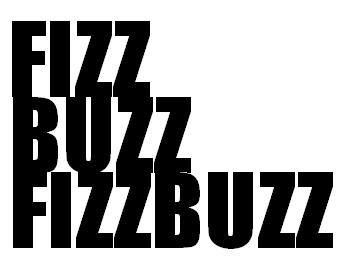
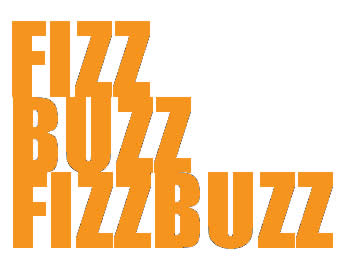
fixed code

diff --git a/FizzBuzzMeta.html b/FizzBuzzMeta.html
@@ -11,7 +11,7 @@
                     <a class="nav-link" href="index.html">Home</a>
                 </li>
                 <li class="nav-item active">
-                    <a class="nav-link" href="solve.html">Solve <span class="sr-only">(current)</span></a>
+                    <a class="nav-link" href="#">Solve <span class="sr-only">(current)</span></a>
                 </li>
                 <li class="nav-item">
                   <a class="nav-link" href="code.html">Code</a>
@@ -28,7 +28,7 @@
               
           </div>
       </nav>
-    <title>FIZZ BUZZ</title>
+    <title>FizzBuzz Meta Strategy</title>
     <!-- Required meta tags -->
     <meta charset="utf-8">
     <meta name="viewport" content="width=device-width, initial-scale=1, shrink-to-fit=no">
@@ -36,55 +36,42 @@
     <!-- Bootstrap CSS -->
     <link rel="stylesheet" href="https://stackpath.bootstrapcdn.com/bootstrap/4.3.1/css/bootstrap.min.css" integrity="sha384-ggOyR0iXCbMQv3Xipma34MD+dH/1fQ784/j6cY/iJTQUOhcWr7x9JvoRxT2MZw1T" crossorigin="anonymous">
     <link rel="stylesheet" href="css/fizzbuzz.css">
-    
+    <div class="rev-style">
   </head>
   <body>
-    <img src="img/fizzbuzz.jpg" class="responsive">
+    <img src="img/fizzbuzz.png" class="responsive">
     <div class="rev-style">
-        <h3>This Program Tests FizzBuzz</h3>
-            <label><span>First Number: </span><input id="input1" type="number" ></label>
-            <label><span>Second Number: </span><input id="input2" type="number" ></label>
-            <label><span></span><input type="submit" onclick="buzzItTemplate()" value="Start Buzzing!"></label>
-            <!--begin table-->
+        <div class="rev=style-headingB">Write a program that prints the numbers from 1 to 100. But for multiples of three print “Fizz” instead of the number and for the multiples of five print “Buzz”. For numbers which are multiples of both three and five print “FizzBuzz”.</div>
+        <br>
+            <label class="form-group"><span>Enter a number:</span><input id="Fizzvalue" type="number"  name="fizz" value="3"></label><br>
+            <label class="form-group"><span>Enter another number:</span><input id="Buzzvalue" type="number" name="buzz" value="5"></label>
+            <label><span></span><input type="submit" onclick="buzzItTemplate()" value="Buzz It!"></label>
             <div style="overflow-x: auto;">
                 <table id="results">
-                    <!--Generated Results here-->
+                    <!--Generated Results Go Here-->
                 </table>
-
             </div>
-            <!--Templates for displaying output-->
+            <!--Templates for displaying the output-->
             <script id="template-header" type="text/template">
                 <thead>
-                    <tr><th colspan="5"> Fizz Buzz Results</th></tr>
+                    <tr><th colspan="5"> Results For Fizz Buzz</th></tr>
                 </thead>
             </script>
             <script id="template-row-items" type="text/template">
                 <tr>
                     <td>{{val1}}</td><td>{{val2}}</td><td>{{val3}}</td><td>{{val4}}</td><td>{{val5}}</td>
+
                 </tr>
 
             </script>
 
 
 
-
-            <hr /> <!--Start here if table fails-->
-            
-        </div>
-
-    </div>
-  
-      
-
-
-        
-
-    <!-- Optional JavaScript -->
+     <!-- Optional JavaScript -->
     <!-- jQuery first, then Popper.js, then Bootstrap JS -->
     <script src="https://code.jquery.com/jquery-3.3.1.slim.min.js" integrity="sha384-q8i/X+965DzO0rT7abK41JStQIAqVgRVzpbzo5smXKp4YfRvH+8abtTE1Pi6jizo" crossorigin="anonymous"></script>
     <script src="https://cdnjs.cloudflare.com/ajax/libs/popper.js/1.14.7/umd/popper.min.js" integrity="sha384-UO2eT0CpHqdSJQ6hJty5KVphtPhzWj9WO1clHTMGa3JDZwrnQq4sF86dIHNDz0W1" crossorigin="anonymous"></script>
     <script src="https://stackpath.bootstrapcdn.com/bootstrap/4.3.1/js/bootstrap.min.js" integrity="sha384-JjSmVgyd0p3pXB1rRibZUAYoIIy6OrQ6VrjIEaFf/nJGzIxFDsf4x0xIM+B07jRM" crossorigin="anonymous"></script>
-    <script src="js/fizzbuzzA.js"></script>
-    
+    <script src="js/fizzbuzz.js"></script>
   </body>
 </html>

diff --git a/js/fizzbuzz.js b/js/fizzbuzz.js
@@ -1,0 +1,101 @@
+//Traditional Solve for Fizz Buzz using a loop
+function FizzBuzzA(value1, value2){
+    let returnValue = "";
+    for(let loop = 1;loop<=100;loop++){
+        if(loop%value1==0 && loop%value2==0){
+            returnValue += 'FizzBuzz ';
+        }
+        else if (loop%value1 ==0){
+            returnValue += 'Fizz ';
+        }
+        else if (loop%value2 ==0){
+            returnValue += 'Buzz '
+        }
+        else{
+            returnValue += loop + ' ';
+        }
+    }
+    return returnValue;
+}
+//2nd Method
+function FizzBuzzB(value1,value2){
+    let returnValue = "";
+    let Fizz = false;
+    let Buzz = false;
+    for(let loop = 1;loop<=100;loop++){
+        Fizz = loop%value1 == 0;
+        Buzz = loop%value2 == 0;
+        switch(true){
+            case Fizz && Buzz :{
+                returnValue += 'FizzBuzz ';
+                break;
+            }
+            case Fizz :{
+                returnValue += 'Fizz ';
+                break;
+            }
+            case Buzz :{
+                returnValue += 'Buzz ';
+                break;
+            }
+            default : {
+                returnValue += loop + ' ';
+                break;
+            }
+        }
+    }
+    return returnValue
+}
+//3rd Method "Non Traditional Approach"
+function FizzBuzzC(value1,value2){
+    let returnValue = "";
+    for (let loop =1;loop<=100;loop++){
+        returnValue += ((loop%value1==0 ? 'Fizz' : '') + (loop%value2==0 ? 'Buzz' : '') || loop ) + ' ';
+    }
+    return returnValue;
+}
+
+//The FizzBuzz Meta Strategy
+function FizzBuzzD(value1, value2){
+    let returnArray= [];
+    for(let loop = 1; loop<=100;loop++){
+        returnArray[loop] = ((loop%value1==0 ? 'Fizz' : '') + (loop%value2==0 ? 'Buzz' : '') || loop );
+    }
+    return returnArray;
+}
+
+
+//Call and use our FizzBuzz
+function buzzIt(){
+    let output="";
+    let val1 = document.getElementById('Fizzvalue').value;
+    let val2 = document.getElementById('Buzzvalue').value;
+    output = FizzBuzzD(val1,val2);
+    document.getElementById('results').innerHTML = output;
+}
+
+//Call and use our Template
+function buzzItTemplate(){
+    let output = [];
+    let headTemplate = document.getElementById('template-header');
+    let rowTemplate = document.getElementById('template-row-items');
+
+    let templateHTML = rowTemplate.innerHTML;
+    let resultsHTML = headTemplate.innerHTML;
+
+    //get the values the user entered
+    let val1 = document.getElementById('Fizzvalue').value;
+    let val2 = document.getElementById('Buzzvalue').value;
+    //call out FizzBuzz function
+    output = FizzBuzzD(val1,val2);
+    for(loop=1; loop<output.length; loop+=5){
+        resultsHTML += templateHTML.replace('{{val1}}', output[loop])
+                                    .replace('{{val2}}', output[loop+1])
+                                    .replace('{{val3}}', output[loop+2])
+                                    .replace('{{val4}}', output[loop+3])
+                                    .replace('{{val5}}', output[loop+4]);
+    }
+    document.getElementById('results').innerHTML = resultsHTML;
+
+
+}

diff --git a/solveA.html b/solveA.html
@@ -39,40 +39,19 @@
     
   </head>
   <body>
-    <img src="img/fizzbuzz.jpg" class="responsive">
+    <img src="img/fizzbuzz.png" class="responsive">
     <div class="rev-style">
-        <h3>This Program Tests FizzBuzz</h3>
-            <label><span>First Number: </span><input id="input1" type="number" ></label>
-            <label><span>Second Number: </span><input id="input2" type="number" ></label>
-            <label><span></span><input type="submit" onclick="buzzItTemplate()" value="Start Buzzing!"></label>
-            <!--begin table-->
-            <div style="overflow-x: auto;">
-                <table id="results">
-                    <!--Generated Results here-->
-                </table>
+        <div class="rev=style-headingB">Write a program that prints the numbers from 1 to 100. But for multiples of three print “Fizz” instead of the number and for the multiples of five print “Buzz”. For numbers which are multiples of both three and five print “FizzBuzz”.</div>
+        <br>
+            <label class="form-group"><span>Enter a number:</span><input id="Fizzvalue" type="number"  name="fizz" value="3"></label><br>
+            <label class="form-group"><span>Enter another number:</span><input id="Buzzvalue" type="number" name="buzz" value="5"></label>
+            <label><span></span><input type="submit" onclick="buzzIt()" value="Buzz It!"></label>
+            <label><span>Results:</span></label><br>
+            <p id="results"></p>
 
-            </div>
-            <!--Templates for displaying output-->
-            <script id="template-header" type="text/template">
-                <thead>
-                    <tr><th colspan="5"> Fizz Buzz Results</th></tr>
-                </thead>
-            </script>
-            <script id="template-row-items" type="text/template">
-                <tr>
-                    <td>{{val1}}</td><td>{{val2}}</td><td>{{val3}}</td><td>{{val4}}</td><td>{{val5}}</td>
-                </tr>
-
-            </script>
-
-
-
-
-            <hr /> <!--Start here if table fails-->
-            
         </div>
-
     </div>
+        
   
       
 
@@ -84,7 +63,7 @@
     <script src="https://code.jquery.com/jquery-3.3.1.slim.min.js" integrity="sha384-q8i/X+965DzO0rT7abK41JStQIAqVgRVzpbzo5smXKp4YfRvH+8abtTE1Pi6jizo" crossorigin="anonymous"></script>
     <script src="https://cdnjs.cloudflare.com/ajax/libs/popper.js/1.14.7/umd/popper.min.js" integrity="sha384-UO2eT0CpHqdSJQ6hJty5KVphtPhzWj9WO1clHTMGa3JDZwrnQq4sF86dIHNDz0W1" crossorigin="anonymous"></script>
     <script src="https://stackpath.bootstrapcdn.com/bootstrap/4.3.1/js/bootstrap.min.js" integrity="sha384-JjSmVgyd0p3pXB1rRibZUAYoIIy6OrQ6VrjIEaFf/nJGzIxFDsf4x0xIM+B07jRM" crossorigin="anonymous"></script>
-    <script src="js/fizzbuzzA.js"></script>
+    <script src="js/fizzbuzz.js"></script>
     
   </body>
 </html>

diff --git a/css/fizzbuzz.css b/css/fizzbuzz.css
@@ -1,3 +1,119 @@
-.btnWide {
-    width: 100%;
+.responsive {
+	max-width: 100%;
+	height: auto;
+  }
+img{
+	padding: 5px;
+}
+
+#results {
+	font-family: "Trebuchet MS", Arial, Helvetica, sans-serif;
+	border-collapse: collapse;
+	width: 100%;
+	background-color: gainsboro; 
+  }
+  
+#results td, #results th {
+	border: 1px solid #ddd;
+	padding: 8px;
+  }
+  
+#results tr:nth-child(even){background-color: #f2f2f2;}
+  
+#results tr:hover {background-color: #ddd;}
+  
+#results th {
+	padding-top: 12px;
+	padding-bottom: 12px;
+	text-align: left;
+	background-color: #f7941d;
+	color: white;
+  }
+
+.rev-style{
+	max-width: 700px;
+	padding: 20px 12px 10px 20px;
+	font: 18px Arial, Helvetica, sans-serif;
+}
+.rev-style-heading{
+	font-weight: bold;
+	font-style: italic;
+	border-bottom: 2px solid #ddd;
+	margin-bottom: 20px;
+	font-size: 20px;
+	padding-bottom: 3px;
+}
+.rev-style-headingB{
+	font-style: italic;
+	border-bottom: 2px solid #ddd;
+	margin-bottom: 20px;
+	font-size: 18px;
+	padding-bottom: 3px;
+}
+
+.rev-style label{
+	display: block;
+	margin: 0px 0px 15px 0px;
+}
+.rev-style label > span{
+	width: 200px;
+	font-weight: bold;
+	float: left;
+	padding-top: 0px;
+	padding-right: 5px;
+}
+.rev-style span.required{
+	color:red;
+}
+.rev-style .tel-number-field{
+	width: 40px;
+	text-align: center;
+}
+.rev-style input.input-field, .rev-style .select-field{
+	width: 48%;	
+}
+.rev-style input.input-field, 
+.rev-style .tel-number-field, 
+.rev-style .textarea-field, 
+ .rev-style .select-field{
+	box-sizing: border-box;
+	-webkit-box-sizing: border-box;
+	-moz-box-sizing: border-box;
+	border: 1px solid #C2C2C2;
+	box-shadow: 1px 1px 4px #EBEBEB;
+	-moz-box-shadow: 1px 1px 4px #EBEBEB;
+	-webkit-box-shadow: 1px 1px 4px #EBEBEB;
+	border-radius: 3px;
+	-webkit-border-radius: 3px;
+	-moz-border-radius: 3px;
+	padding: 7px;
+	outline: none;
+}
+.rev-style .input-field:focus, 
+.rev-style .tel-number-field:focus, 
+.rev-style .textarea-field:focus,  
+.rev-style .select-field:focus{
+	border: 1px solid #0C0;
+}
+.rev-style .textarea-field{
+	height:100px;
+	width: 55%;
+}
+.rev-style input[type=submit],
+.rev-style input[type=button]{
+	border: none;
+	padding: 8px 15px 8px 15px;
+	background: #f7941d;
+	color: #fff;
+	box-shadow: 1px 1px 4px #DADADA;
+	-moz-box-shadow: 1px 1px 4px #DADADA;
+	-webkit-box-shadow: 1px 1px 4px #DADADA;
+	border-radius: 3px;
+	-webkit-border-radius: 3px;
+	-moz-border-radius: 3px;
+}
+.rev-style input[type=submit]:hover,
+.rev-style input[type=button]:hover{
+	background: #EA7B00;
+	color: #fff;
 }

diff --git a/code.html b/code.html
@@ -21,7 +21,7 @@
                       <a class="nav-link" href="index.html">Home </a>
                   </li>
                   <li class="nav-item">
-                      <a class="nav-link" href="solve.html">Solve</a>
+                      <a class="nav-link" href="FizzBuzzMeta.html">Solve </a>
                   </li>
                   <li class="nav-item active">
                     <a class="nav-link" href="code.html">Code <span class="sr-only">(current)</span></a>

diff --git a/index.html b/index.html
@@ -20,7 +20,7 @@
                       <a class="nav-link" href="index.html">Home <span class="sr-only">(current)</span></a>
                   </li>
                   <li class="nav-item">
-                      <a class="nav-link" href="solve.html">Solve</a>
+                      <a class="nav-link" href="FizzBuzzMeta.html">Solve</a>
                   </li>
                   <li class="nav-item">
                     <a class="nav-link" href="code.html">Code</a>
